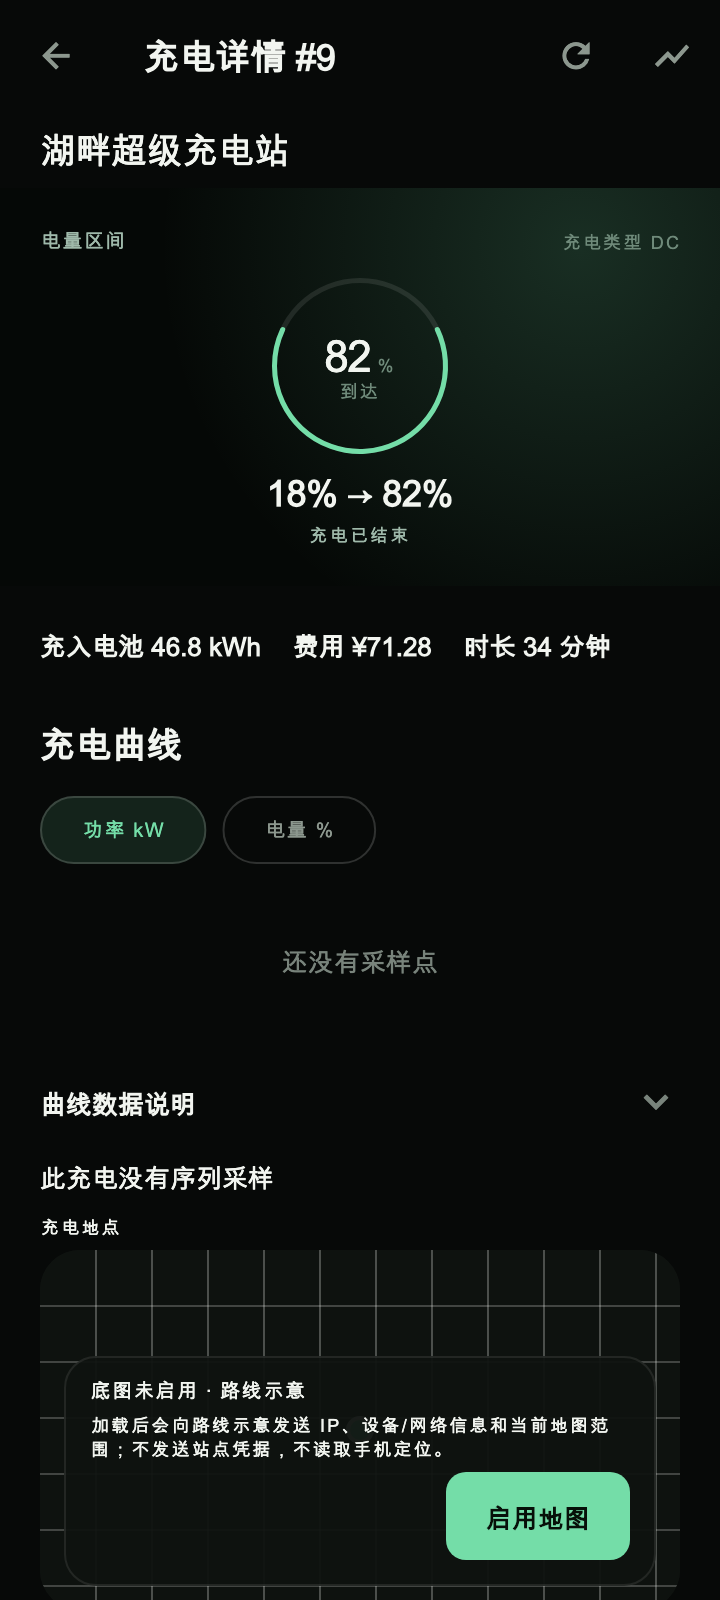
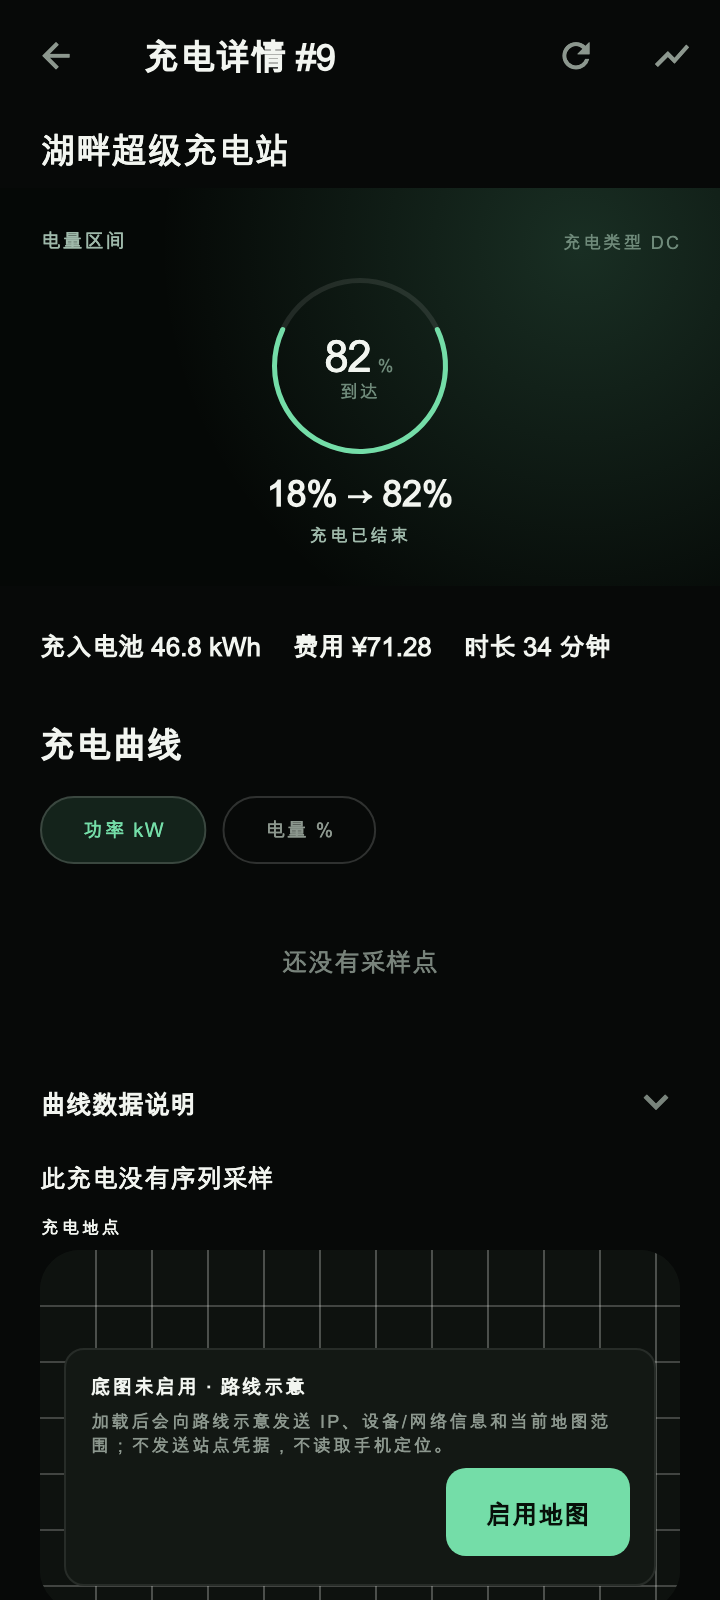
VA12：重出 132 张图册并复核指纹
- 按本轮 lib 改动重出 11 页 × normal/empty/missing × 浅/深 × 100/200% = 132 张。
- 复核：132 个文件哈希互不相同；66 对浅/深全不同；66 对 100/200% 全不同。
- 新指纹：PNG 86f25170…01a143（sha256 over 排序「文件名:sha256」行 + 尾换行）；源码 5fc5dcae…36aa7f（83 个文件）。
- 受影响页：drive-detail 12 张（同意条全文 + 标签顺序）、charge-detail 6 张（地图 240 + 同意条配色/字号）、charging-empty 2 张（构成 —、DC 占比 —）、topic-charging-empty 4 张（统一空态）。
- 图册断言同步：topic-charging empty 的 must 改为「还没有充电记录」，mustNot 增加「0 / 0 次」。

验收：a_gallery_render_test 单跑通过并写出 132 张，README 两条指纹与受影响页说明已更新。

Changed region(s): [[0.1222, 0.8438, 0.8556, 0.9375], [0.6722, 0.9375, 0.825, 0.9688]]

diff --git a/test/a_gallery_render_test.dart b/test/a_gallery_render_test.dart
@@ -86,7 +86,7 @@ const markers = <String, Map<String, ({List<String> must, List<String> mustNot})
   },
   'topic-charging': {
     'normal': (must: ['补能账目', '¥186.4'], mustNot: ['还没有充电记录']),
-    'empty': (must: ['—'], mustNot: ['¥186.4']),
+    'empty': (must: ['还没有充电记录'], mustNot: ['¥186.4', '0 / 0 次']),
     'missing': (must: ['—'], mustNot: ['¥186.4']),
   },
   'topic-range': {

diff --git a/docs/implementation/a-renders/gallery/README.md b/docs/implementation/a-renders/gallery/README.md
@@ -1,6 +1,6 @@
 # A「夜航」图册（VA12）
 
-- 日期：2026-11-01
+- 日期：2026-11-01（第二轮重出：地图同意条 200%、补能空态、电量区间标签顺序）
 - 分支：`codex/mileaf-v1`（本地提交，未推送）
 - 生成入口：`test/a_gallery_render_test.dart`（opt-in；未设置 `MILEAF_RENDER_OUTPUT` 时跳过）
 - 生成条件：360×800 逻辑像素、pixelRatio 2（PNG 720×1600）；Inter 400/500/600 + 渲染机 CJK fallback（Arial Unicode）。
@@ -9,10 +9,12 @@
 
 ## 指纹
 
[1 lines of base64/hex data omitted]
-  （`sha256` over 排序后的「文件名:文件 sha256」行）
[1 lines of base64/hex data omitted]
-  （`find lib/src -name '*.dart'` + `test/a_gallery_render_test.dart` + `test/support/a_gallery_fixture.dart` + `test/support/c_fixture.dart`，按路径排序后拼接）
[1 lines of base64/hex data omitted]
+  （`sha256` over 排序后的「文件名:文件 sha256」行，行间 `\n`，末尾带一个换行）
[1 lines of base64/hex data omitted]
+  （`find lib/src -name '*.dart'` + `test/a_gallery_render_test.dart` + `test/support/a_gallery_fixture.dart` + `test/support/c_fixture.dart`，按路径排序后拼接；本轮 83 个文件）
+
+> 上一轮（VA12 首次 132 张）指纹为 PNG `4dbd0288…aa15c4` / 源码 `d040fa6d…afa4`（80 个源码文件），已作废。本轮中间态 `f1300da4…` 亦已作废——审查修正后重新生成。
 
 ## 矩阵：11 页 × 3 态 × 2 外观 × 2 字号 = 132 张
 
@@ -45,10 +47,10 @@
 
 - `overview-*`：深色 hero（额定续航 + 电量环）、本月主数、每日里程主图与参照虚线；200% 下三读数换行、无裁切；空态不画全零，缺失 `—`。
 - `drives-*`：期间主数 + 节奏条带 + 最近的路；空态 0.0 km / 0 趟 / 净电耗 `—` 与「这段时间还没有行程」。
-- `charging-*`：深色费用 hero + 覆盖 + 三读数 + stem；空态费用/能量/时长 `—`（「0/0 次有记录」即未知）＋「这段时间还没有充电记录」，不画全零补能图；缺失费用 `—`、次数 9 保留。
+- `charging-*`：深色费用 hero + 覆盖 + 三读数 + stem；空态费用/能量/时长 `—`（「0/0 次有记录」即未知）＋「这段时间还没有充电记录」，构成区 AC/DC/未知 与 DC 占比同为 `—`，不画全零补能图；缺失费用 `—`、次数 9 保留。
 - `statistics-*`：结论 + 深色里程主图 + 2×2 章节；200% 读数换行不裁切；缺失 `—`。
-- `drive-detail-*`：地图/路线示意、三结果、速度曲线与电量区间（标签按 §9.4 为「到达 68% / 出发 76%」）；empty 显示「无采样数据」，missing 只留失败条 + 重试。
-- `charge-detail-*`：电量弧 hero 全出血（左右到屏幕边）、三结果 2×2 换行、功率曲线；missing 保留 46.8 kWh / ¥71.28 / 34 分钟。
+- `drive-detail-*`：地图/路线示意、三结果、速度曲线与电量区间（标签按用户 2026-11-01 裁定为「出发 76% / 到达 68%」，行程顺序）；200% 下「底图未启用」同意条三行完整的隐私说明 +「启用地图」按钮，无省略号、无裁切（本轮修正）；empty 显示「无采样数据」，missing 只留失败条 + 重试。
+- `charge-detail-*`：电量弧 hero 全出血（左右到屏幕边）、三结果 2×2 换行、功率曲线；地点地图 ≥150% 时高度与行程地图同为 240，同意条同样全文可见；missing 保留 46.8 kWh / ¥71.28 / 34 分钟。
 - `topic-rhythm-*`：活跃天数、每日用车热图、证据 2×2。
 - `topic-energy-*`：温度分组主数 + 分组点图 + 证据；空态「区间内无已完成行程」。
 - `topic-charging-*`：已知支出 `¥186.4`、均价 `¥0.87/kWh`、覆盖 `8 / 9 次`、入电量走势、地点账目。
@@ -62,15 +64,15 @@
 3. 充电详情电量弧 hero 已全出血（VA09/VA12 修正）；`charge-detail-*` 为证。
 4. 缺失统一 `—`；费用无币种时显示金额 +「币种未记录」，不默认 CNY。
 5. 概览/统计没有 C 的彩色 tile 与五等权 tab；章节用 1px 分线；停放状态分布与分桶柱改为单绿色阶 + 灰阶（本轮由 Material 调色板改为 A token），分桶起点按本地日历显示（不再贴服务端 ISO）。
-6. 补能账目中 0 条记录时，费用/能量/时长按「0/0 次有记录」显示 `—`（Spec §9.5 空态），充电次数保留真实 `0`；构成区（AC/DC/未知）仍显示 `0 kWh` 并附「分类已知 0 / 0 次」。
-7. 补能专题（统计页内）的空态判定仍依赖 `totals == null`，成功返回 0 条记录时走 `—` + `0 / 0 次`，不进入「还没有充电记录」分支；本轮不改该页判定。
+6. 补能账目中 0 条记录时，费用/能量/时长按「0/0 次有记录」显示 `—`（Spec §9.5 空态），充电次数保留真实 `0`；构成区（AC/DC/未知）本轮改为 `—`（无一条记录带电量即未知），「DC 占已知分类」也改 `—`（分母为空不是 0%），「分类记录时长」统一为「分类记录时长缺失」，下方「分类已知 0 / 0 次」仍是真实计数。
+7. 补能专题（统计页内）0 条记录时本轮改为统一空态「还没有充电记录」，不再显示 `—` + `0 / 0 次` 的明细块；判定为 `sessions == 0`。
 
 ## 验证
 
 - `tool/flutterw analyze --no-pub`：通过（0 issue）。
-- `tool/flutterw test --no-pub`：**352 通过、22 跳过**（跳过为 opt-in 渲染入口、历史 C 图册与平台占位）。
+- `tool/flutterw test --no-pub`：**357 通过、22 跳过**（跳过为 opt-in 渲染入口、历史 C 图册与平台占位）。
 - 本目录 132 张由正式页面渲染；`a_gallery_render_test.dart` 对每页每态做**双向**断言：`must` 要求主数字/图表或空/缺失文案在场，`mustNot` 要求正常态快照数字（如 `1,198.6`、`¥186.4`、`432.0`）绝不出现在空/缺失格，反之正常格不得出现空态文案。断言失败会打印该页实际文本。
-- 各页面另有 A 回归：`a_overview_test.dart`、`a_drives_test.dart`、`a_charging_test.dart`、`a_statistics_test.dart`、`a_drive_detail_test.dart`、`a_charging_detail_test.dart`、`a_micro_spark_test.dart`。
+- 各页面另有 A 回归：`a_overview_test.dart`、`a_drives_test.dart`、`a_charging_test.dart`、`a_statistics_test.dart`、`a_drive_detail_test.dart`、`a_charging_detail_test.dart`、`a_micro_spark_test.dart`。本轮新增：两张地图的 200% 同意条几何断言（文案无 `maxLines`/`overflow`、按钮不超出地图）、`map_platform_test.dart` 的全屏地图 200%、补能构成 `—` 与补能专题空态。
 
 ## 外部 gate（不因本图册通过而关闭）
 
